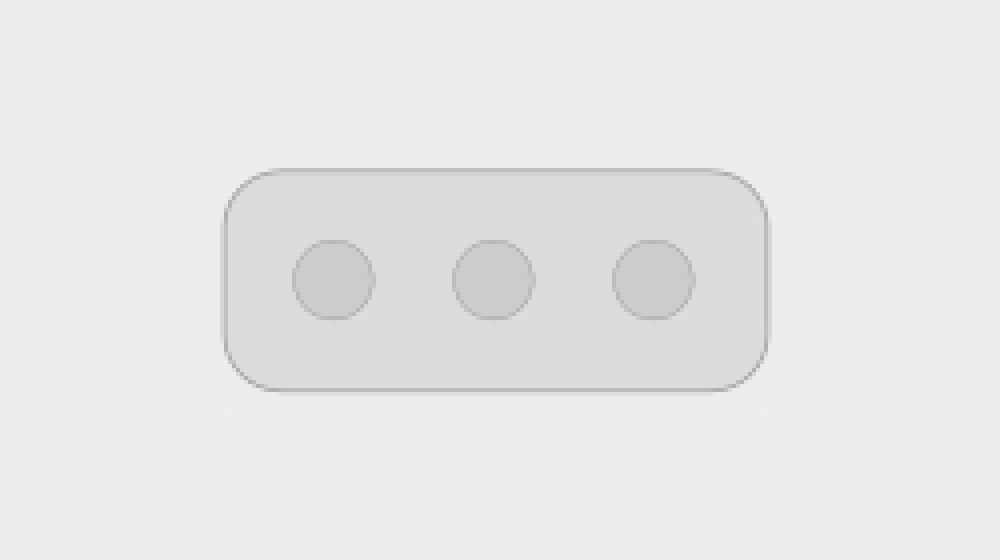
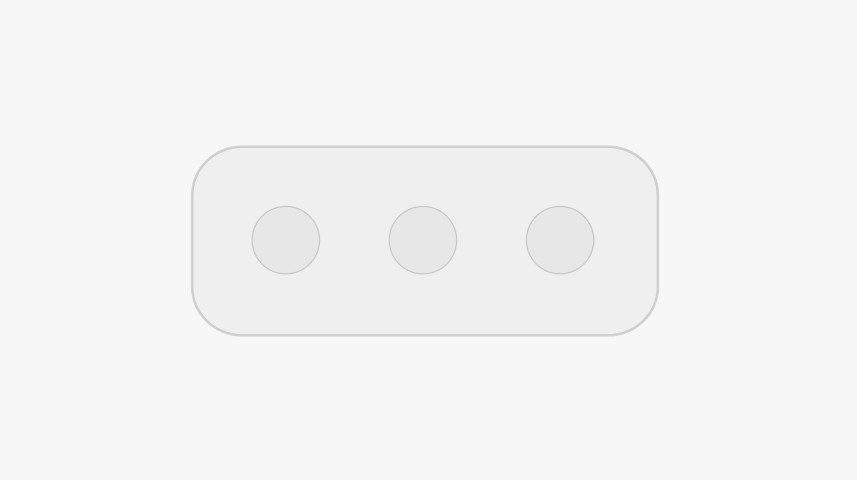
upped resolution on placeholder game image

diff --git a/components/FrontPage.component.php b/components/FrontPage.component.php
@@ -115,7 +115,7 @@ class FrontPageComponent
                                         if (sizeof($screenshots) == 0) {
                                         ?>
                                             <div class="carousel-item<?= $i === 0 ? " active" : "" ?>">
-                                                <img src="resources/images/placeholder/placeholder_thumb.jpg" class="carousel-img" alt="image_<?= $i ?>">
+                                                <img src="resources/images/placeholder/placeholder_big.jpg" class="carousel-img" alt="image_<?= $i ?>">
                                             </div>
                                         <?php
                                         }

diff --git a/components/GameList.component.php b/components/GameList.component.php
@@ -65,7 +65,7 @@ class GameListComponent
                         $game = $games[$i];
 
                         // Todo -> Thumbnail
-                        $thumbnail = "resources/images/placeholder/placeholder_thumb.jpg";
+                        $thumbnail = "resources/images/placeholder/placeholder_big.jpg";
                         if (sizeof($screenshots = $game->getScreenshots()) > 0)
                             $thumbnail = $screenshots[0];
                         ?>

diff --git a/models/Game.model.php b/models/Game.model.php
@@ -119,7 +119,7 @@ class Game {
     public function getFirstScreenshot()
     {
         if($this->screenshots == null){
-            return "./resources/images/placeholder/placeholder_thumb.jpg";
+            return "./resources/images/placeholder/placeholder_big.jpg";
         }else{
             return $this->screenshots[0];
         }
